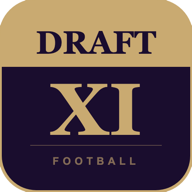
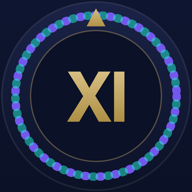
feat: update brand assets from Design System kit
- icon.svg → new spin-disc mark (violet/cyan/gold rings, XI wordmark)
- logo-icon.svg → new avatar mark on navy background
- logo-full.svg → horizontal lockup (mark + wordmark)
- icon-192/180/512.png → regenerated from new 1024px avatar source
- og-image.png → updated to design kit launch post (1200×630)
- Header brand: added <img> mark alongside h1 wordmark
- brand-icon: circular crop, violet drop-shadow, fluid sizing
- style.css v156, SW wcxi-v176

diff --git a/index.html b/index.html
@@ -34,7 +34,7 @@
   <link rel="preconnect" href="https://fonts.googleapis.com" />
   <link rel="preconnect" href="https://fonts.gstatic.com" crossorigin />
   <link rel="stylesheet" href="https://fonts.googleapis.com/css2?family=Bricolage+Grotesque:opsz,wght@12..96,600;12..96,700;12..96,800&family=Inter:wght@400;500;600;700;800&family=DM+Mono:wght@500;700&display=swap" />
-  <link rel="stylesheet" href="style.css?v=155" />
+  <link rel="stylesheet" href="style.css?v=156" />
   <link rel="stylesheet" href="tokens.css?v=77" />
   <link rel="stylesheet" href="floodlights.css?v=141" />
 </head>
@@ -50,6 +50,7 @@
   <div class="wrap">
     <header>
       <div class="brand" id="brandLogo" role="button" tabindex="0" aria-label="Go to home" title="Home">
+        <img src="logo-icon.svg" class="brand-icon" alt="Draft XI mark" width="38" height="38" />
         <h1>Draft XI</h1>
       </div>
       <button class="install-btn" id="installBtn" hidden>Install app</button>

diff --git a/style.css b/style.css
@@ -96,12 +96,16 @@ header {
   text-align: center;
   margin-bottom: 18px;
 }
-.brand { display: flex; align-items: center; justify-content: center; gap: 12px; cursor: pointer; transition: opacity 0.15s; user-select: none; }
-.brand:hover { opacity: 0.8; }
+.brand { display: flex; align-items: center; justify-content: center; gap: 10px; cursor: pointer; transition: opacity 0.15s; user-select: none; }
+.brand:hover { opacity: 0.85; }
 .brand:active { opacity: 0.6; }
 .brand-icon {
-  width: clamp(34px, 7vw, 46px); height: clamp(34px, 7vw, 46px);
-  border-radius: 12px; flex: 0 0 auto; display: block;
+  width: clamp(32px, 6vw, 42px);
+  height: clamp(32px, 6vw, 42px);
+  border-radius: 50%;
+  flex: 0 0 auto;
+  display: block;
+  filter: drop-shadow(0 2px 8px rgba(124,92,252,0.4));
 }
 
 /* Accessibility — visible keyboard focus across the app */

diff --git a/sw.js b/sw.js
@@ -1,6 +1,6 @@
 /* Service worker: network-first so the latest build always loads when online,
  * falling back to cache when offline (the app still installs + works offline). */
-const CACHE = "wcxi-v175";
+const CACHE = "wcxi-v176";
 const ASSETS = [
   "./", "./index.html", "./style.css", "./tokens.css", "./floodlights.css", "./floodlights.js", "./audio.js", "./ratingswar.js", "./draftvscomputer.js",
   "./data.js", "./data_extra.js", "./data_full.js", "./data_legacy.js", "./data_full2.js", "./data_wc_history.js", "./data_patches.js", "./ratings_overrides.js", "./positions.js", "./data_fixups.js", "./cl_clubs.js", "./cl_data.js", "./cl_data2.js", "./nations.js", "./engine.js", "./game.js",
